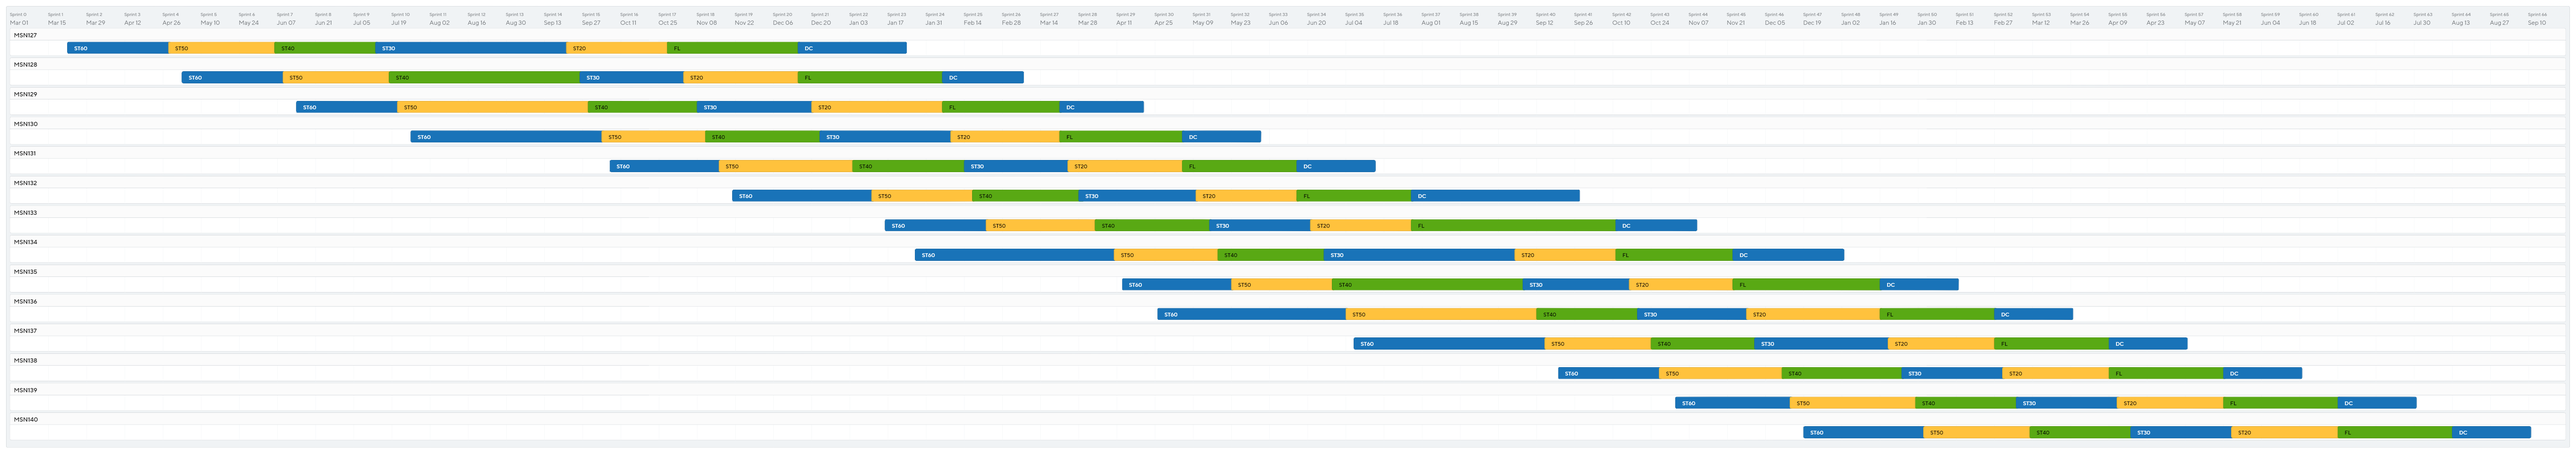
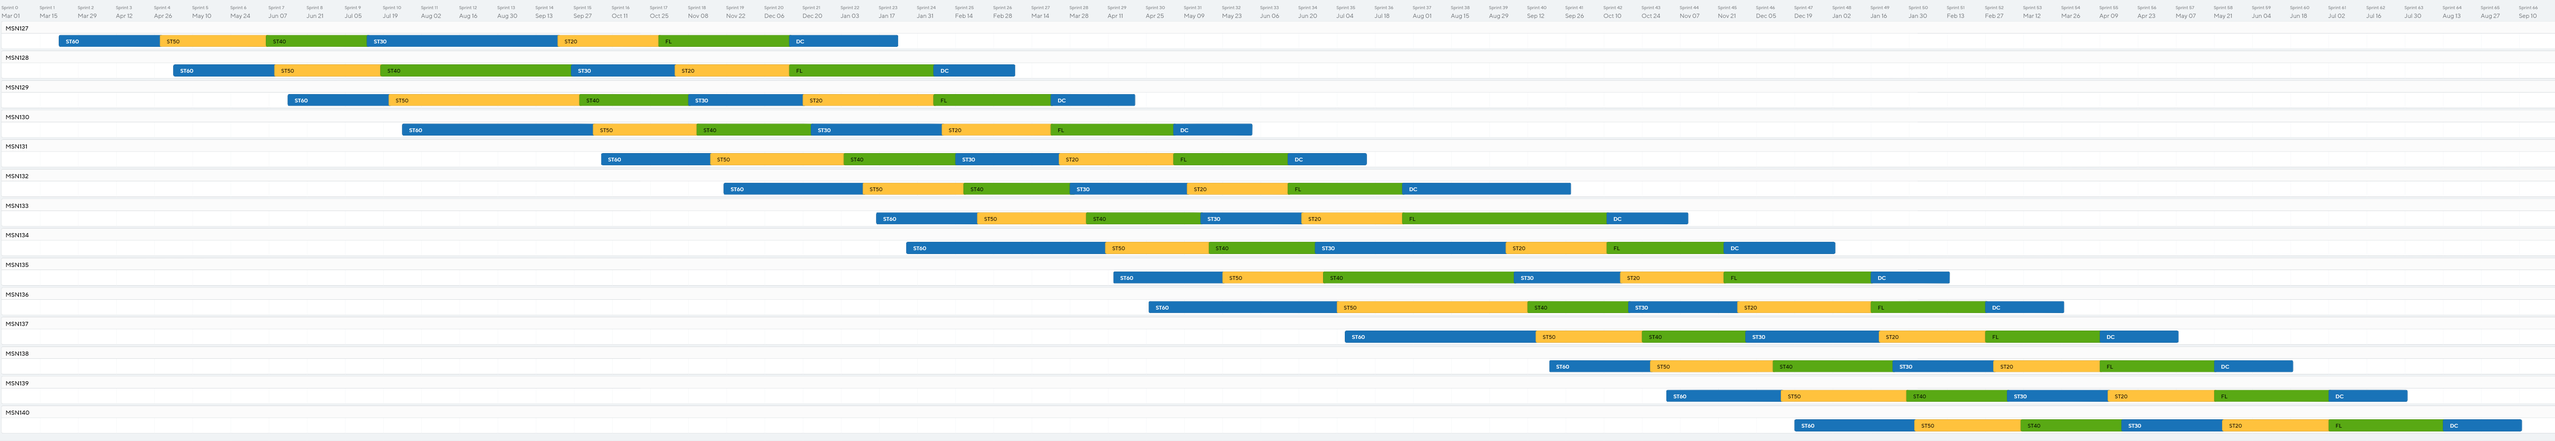
alineacion div tactical y calendar button

diff --git a/indicator/indicator.html b/indicator/indicator.html
@@ -82,8 +82,39 @@
         <div class="content__option" id="tactical">
             <h1>Tactical Planning</h1>
             <div>
-                <div id="gantt" class="tactical_gantt">
-                    <img id="gantt_diagram" src="../assets/img/TimeLine MSN - Recortado.png">
+                <div id="bar" class="tactical_bar">
+                    <!-- Boton CALENDARIO -->
+                     <!-- FALTA MODAL CALENDARIO -->
+                    <button class="calendar-button">
+                        <img src="../assets/img/svg-calendar.svg" alt="Calendario">
+                    </button>
+                </div>
+                <div id="card-grantt-container" class="diagram_container">
+                    <div id="msn-cards" class="tactical_msn_cards">
+                        <!-- Tarjetas MSNs con menu -->
+                        <button class="calendar-button">
+                            <img src="../assets/img/svg-calendar.svg" alt="Calendario">
+                        </button>
+                        <button class="calendar-button">
+                            <img src="../assets/img/svg-calendar.svg" alt="Calendario">
+                        </button>
+                        <button class="calendar-button">
+                            <img src="../assets/img/svg-calendar.svg" alt="Calendario">
+                        </button>
+                        <button class="calendar-button">
+                            <img src="../assets/img/svg-calendar.svg" alt="Calendario">
+                        </button>
+                        <button class="calendar-button">
+                            <img src="../assets/img/svg-calendar.svg" alt="Calendario">
+                        </button>
+                        <button class="calendar-button">
+                            <img src="../assets/img/svg-calendar.svg" alt="Calendario">
+                        </button>
+
+                    </div>
+                    <div id="gantt" class="tactical_gantt">
+                        <img id="gantt_diagram" src="../assets/img/TimeLine MSN - Recortado.png">
+                    </div>
                 </div>
                 <div class="tactical__blurred"></div>
             </div>

diff --git a/indicator/tactical_planing/tactical.css b/indicator/tactical_planing/tactical.css
@@ -10,13 +10,43 @@
 }
 
 #tactical .tactical_gantt {
+    display: flex;
+    align-items: flex-start;
+    z-index: 1;
     width: 100%;
     overflow-x: scroll;
     cursor: grab;
     transform: scale(0.99);
     transition: all .3s ease;
 }
+#tactical .diagram_container {
+     display: flex;
+    align-items: flex-start;
+}
 
+#tactical .tactical_msn_cards {
+    display: flex;
+    align-items: flex-start;
+    flex-direction: column;
+    z-index: 1;
+    width: 12%;
+}
+
+#tactical .tactical_bar {
+    display: flex;
+    align-items: flex-start;
+    margin-left: 6rem;
+}
+.calendar-button {
+    background: none;
+    border: none;
+    cursor: pointer;
+    padding: 0;
+}
+.calendar-button img {
+    width: 1.2rem; /* Ajusta el tamaño según sea necesario */
+    height: 1.2rem; /* Ajusta el tamaño según sea necesario */
+}
 /* #tactical .tactical_gantt > img {
     height: 70vh;
     transform: scale(0.99);

diff --git a/index.html b/index.html
@@ -24,7 +24,7 @@
   <link rel="preconnect" href="https://fonts.gstatic.com" crossorigin>
   <link href="https://fonts.googleapis.com/css2?family=Montserrat:wght@100&display=swap" rel="stylesheet">
 
-  <title>WEB CRONOS</title>
+  <title>ALTEN</title>
 </head>
 
 <body>
